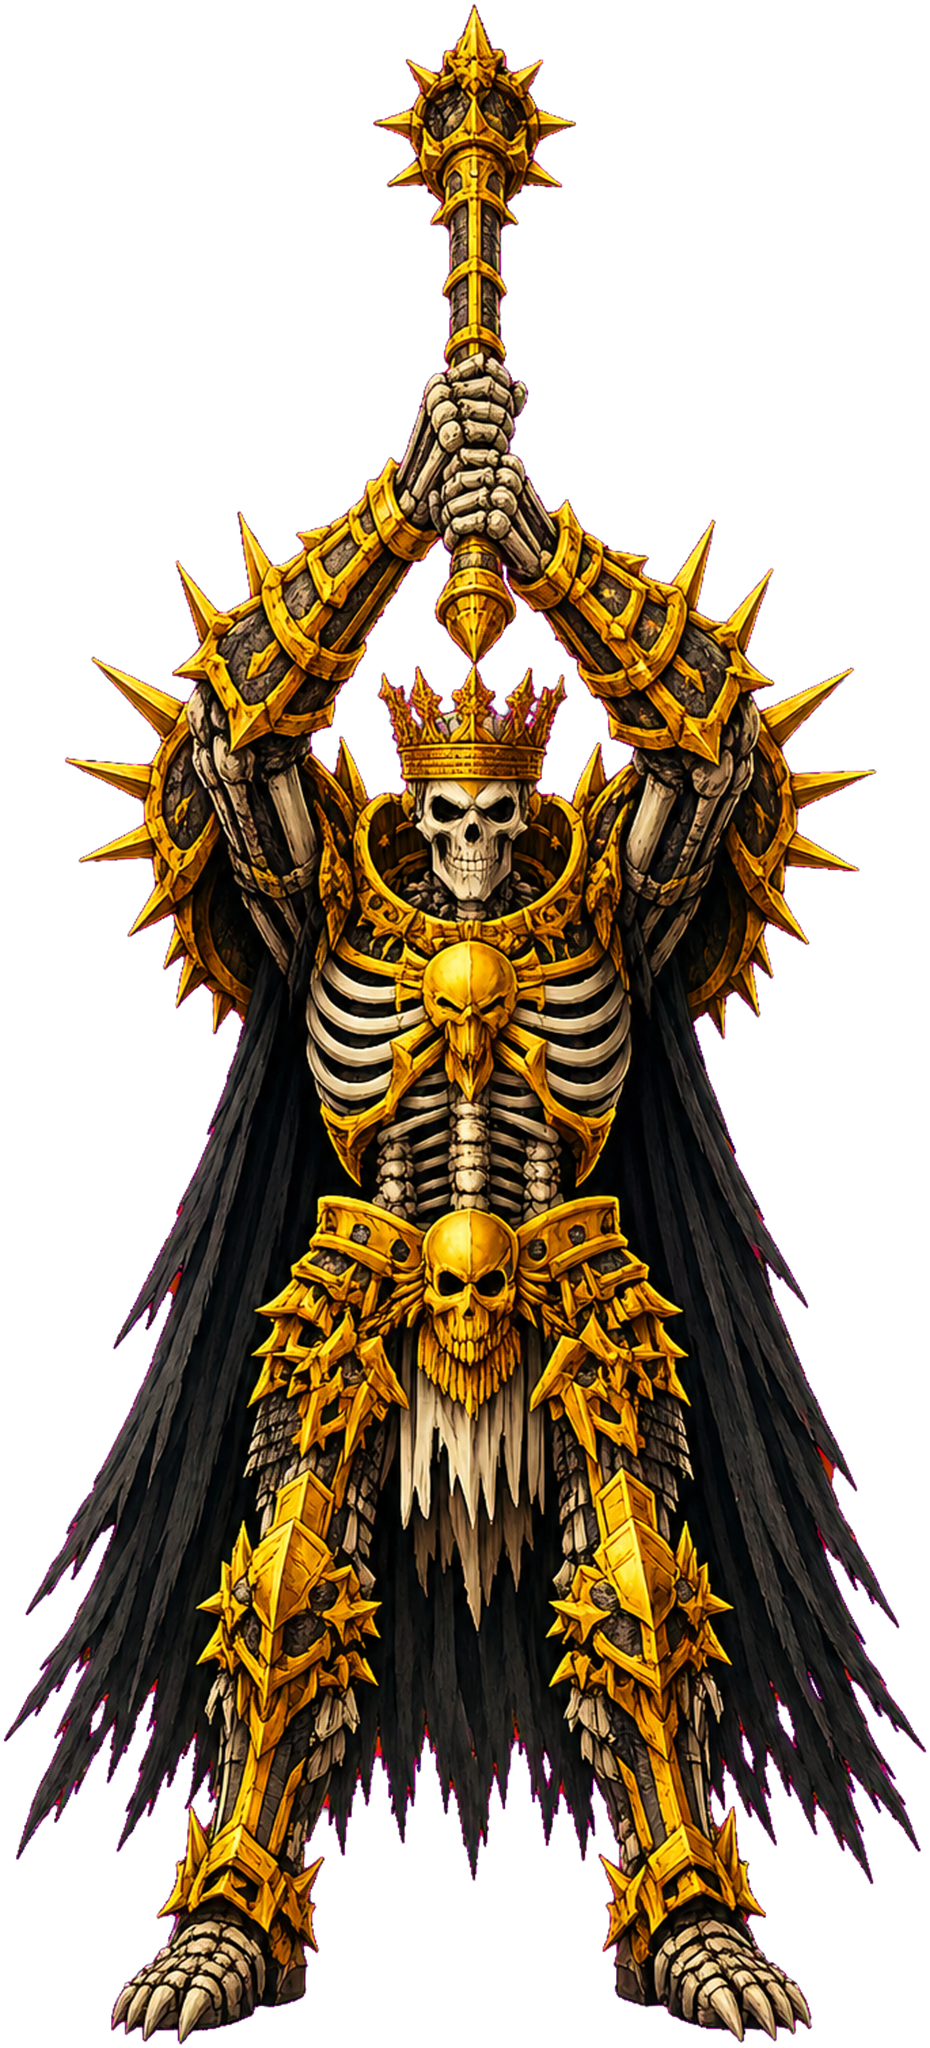
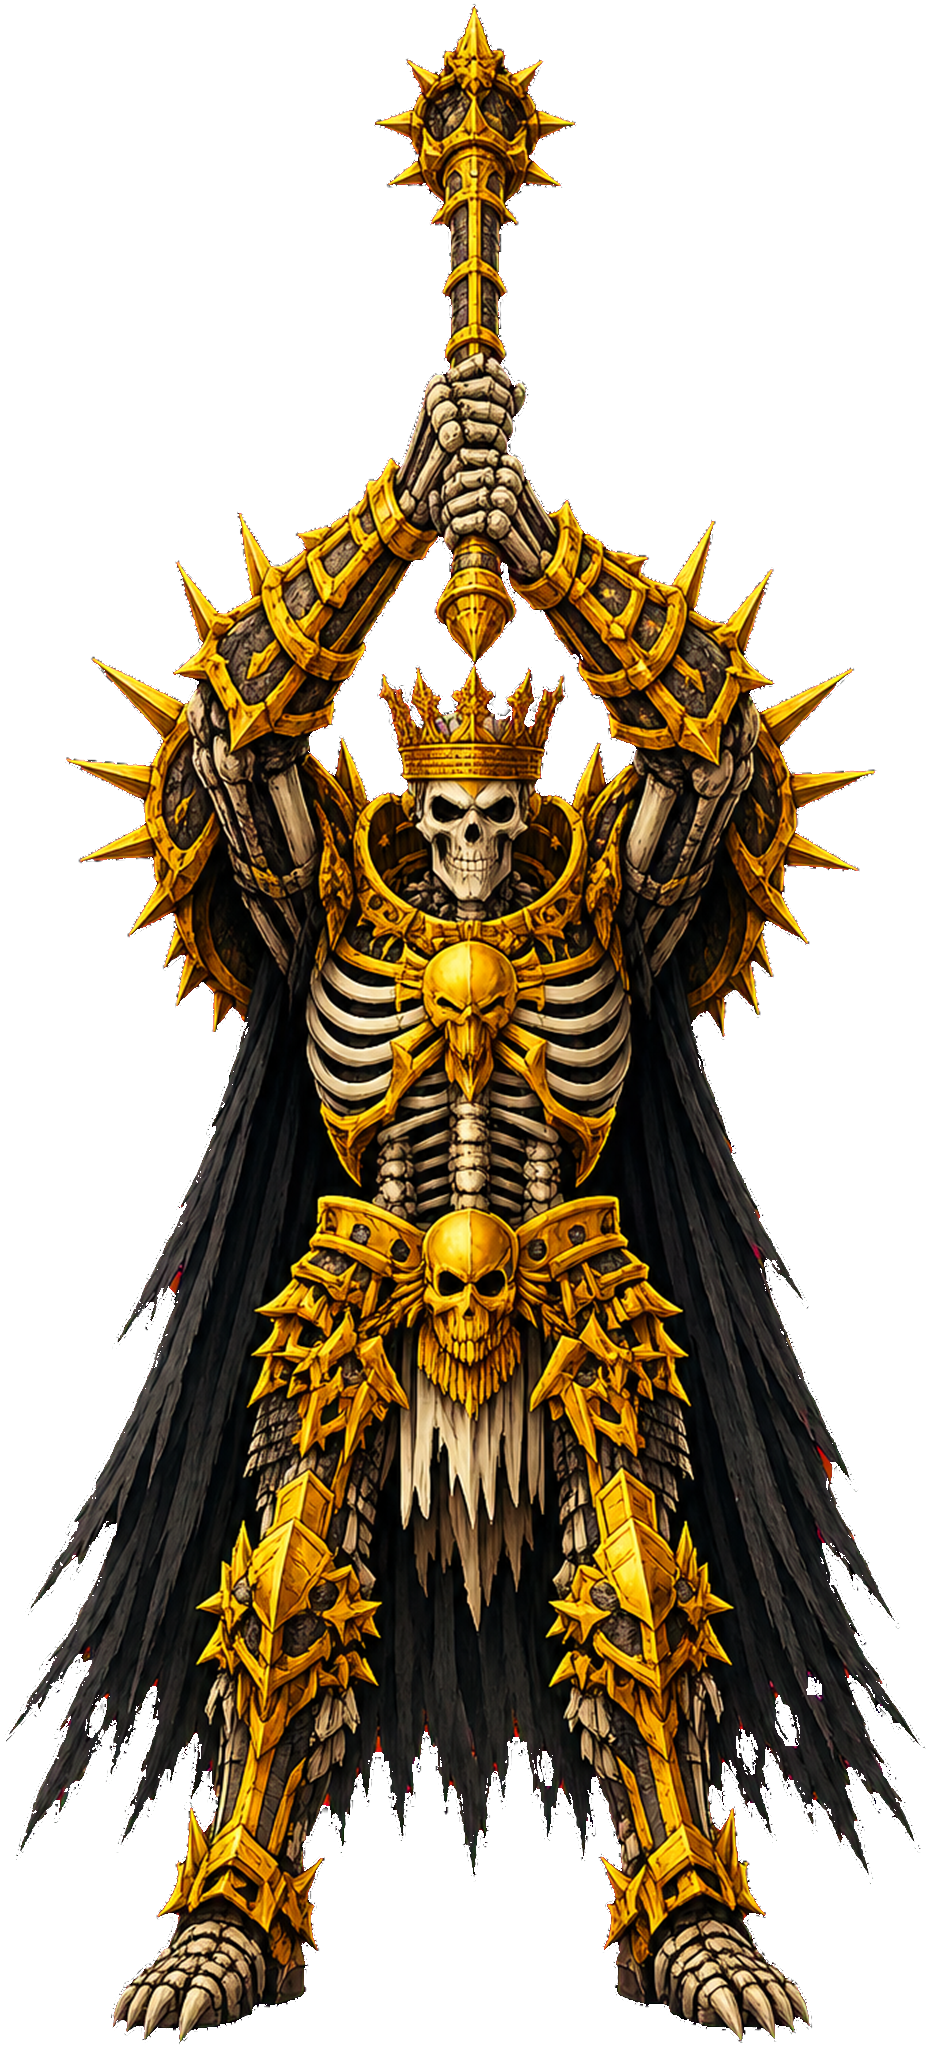
add fungal snail and fan art

diff --git a/js/game.js b/js/game.js
@@ -123,9 +123,10 @@ const journalCatalog = [
   { id: 'voidSerpent', name: 'Void Serpent', kind: 'Enemy', image: 'assets/themes/abyssal-depths/void-serpent.png' },
   { id: 'voidwingDrake', name: 'Riftwing Drake', kind: 'Enemy', image: 'assets/themes/abyssal-depths/voidwing-drake.png' },
   { id: 'corruptedStag', name: 'Corrupted Stag', kind: 'Enemy', image: 'assets/themes/fungal-dominion/corrupted-stag.png' },
+  { id: 'fungalOozeSnail', name: 'Fungal Ooze Snail', kind: 'Enemy', image: 'assets/themes/fungal-dominion/Fungal Ooze Snail.png', fanArt: 'assets/fan-art/Bioluminescent Slug.png' },
   { id: 'mechMinion', name: 'Furnace Sentinel', kind: 'Enemy', image: 'assets/themes/furnace-foundry/furnace-sentinel.png' },
-  { id: 'mechBear', name: 'Brassmaw Siege Bear', kind: 'Enemy', image: 'assets/themes/furnace-foundry/mech-bear.png' },
-  { id: 'shadowCat', name: 'Nightclaw Lynx', kind: 'Enemy', image: 'assets/themes/shadow-realm/shadow-cat.png' },
+  { id: 'mechBear', name: 'Brassmaw Siege Bear', kind: 'Enemy', image: 'assets/themes/furnace-foundry/mech-bear.png', fanArt: 'assets/fan-art/mech bear standing.png' },
+  { id: 'shadowCat', name: 'Nightclaw Lynx', kind: 'Enemy', image: 'assets/themes/shadow-realm/shadow-cat.png', fanArt: 'assets/fan-art/Feral shadowed lynx.png' },
   { id: 'shadowGator', name: 'Dreadscale Gator', kind: 'Enemy', image: 'assets/themes/shadow-realm/shadow-gator.png' },
   { id: 'lushGolem', name: 'Lush Golem', kind: 'Boss', image: 'assets/themes/verdant-ruins/lush-golem.png', fanArt: 'assets/fan-art/original-lush-golem.png' },
   { id: 'lavaGolem', name: 'Lava Golem', kind: 'Boss', image: 'assets/themes/cinder-keep/lava-golem.png' },
@@ -139,7 +140,7 @@ const journalCatalog = [
   { id: 'woodBoss', name: 'Heartwood Horror', kind: 'Boss', image: 'assets/themes/moonwood/wood-boss.png' },
   { id: 'fungalBoss', name: 'Mycelial Sovereign', kind: 'Boss', image: 'assets/themes/fungal-dominion/mycelial-sovereign.png' },
   { id: 'mechOverlord', name: 'Furnace Overlord', kind: 'Boss', image: 'assets/themes/furnace-foundry/mech-boss.png' },
-  { id: 'crystalBoss', name: 'Prismatic Guardian', kind: 'Boss', image: 'assets/themes/crystal-sanctum/crystal-guardian.png' },
+  { id: 'crystalBoss', name: 'Prismatic Guardian', kind: 'Boss', image: 'assets/themes/crystal-sanctum/crystal-guardian.png', fanArt: 'assets/fan-art/crystal guardian mech.png' },
   { id: 'sandSnake', name: 'Gilded Dune Serpent', kind: 'Boss', image: 'assets/themes/desert-ruins/sand-snake.png' },
   { id: 'standard', name: 'Dungeon Guardian', kind: 'Boss', image: 'assets/player/shadow boss.png' },
 ];
@@ -147,7 +148,7 @@ const bestiaryProfiles = {
   woodBoss: { health: 'Boss-tier scaling', damage: 'Boss-tier scaling', speed: '72', traits: 'Wood Slam / Thorn Ring / Heartwood Eruption / Splinterfiend Summoning', backstory: 'The Heartwood Horror was once the Moonwood’s oldest guardian. Corruption entered through an axe wound and turned protection into possession. Its Heartwood Eruption drives the forest’s buried roots upward in one furious command.' },
   crystalBoss: { health: 'Boss-tier scaling', damage: 'Boss-tier scaling', speed: '74', traits: 'Crystal Slam / Prism Dash / Crystal Eruption', backstory: 'The Prismatic Guardian grew around the first gemstone ever cut beneath the dungeon. Every fracture teaches it a new angle of attack, while its shield preserves the reflected memory of every warrior who struck it.' },
   mechMinion: { health: '105 + 12 per boss tier', damage: '10 + 1.35 per boss tier', speed: '68', traits: 'Quad-cannon bolts / heavy armour / boss deployment', backstory: 'Furnace Sentinels were mobile boiler guards built to keep the Overlord’s assembly lines burning. Their four heated barrels fire in perfect sequence because each machine shares the same mechanical memory.' },
-  fungalBoss: { health: 'Boss-tier scaling', damage: 'Boss-tier scaling', speed: '72', traits: 'Mycelium Slam / Hypha Dash / Sporeburst / Corrupted Stag Summoning', backstory: 'The Mycelial Sovereign began as a single spore feeding beneath a forgotten battlefield. It inherited every fallen creature’s instincts through their roots and now believes the entire dungeon is one body awaiting infection.' },
+  fungalBoss: { health: 'Boss-tier scaling', damage: 'Boss-tier scaling', speed: '72', traits: 'Mycelium Slam / Hypha Dash / Sporeburst / Fungal Summoning', backstory: 'The Mycelial Sovereign began as a single spore feeding beneath a forgotten battlefield. It inherited every fallen creature’s instincts through their roots and now believes the entire dungeon is one body awaiting infection.' },
   crystalStalker: { health: '150 + 18 per wave', damage: '14 + 2.1 per wave', speed: '68', traits: 'Verdant crystal armour · Shard Lunge · stamina fracture', backstory: 'Verdant Crystal Stalkers slept beneath the oldest roots until green cave crystals grew through their hides. They now guard every glowing seam in the Lush Caves as if it were an egg.' },
   glowBat: { health: '58 + 9 per wave', damage: '10 + 1.5 per wave', speed: '176', traits: 'Wing-flap flight · Echo Dive · rapid retreat', backstory: 'Viridian Glowbats pollinate crystal flowers that bloom only during cave-ins. Their luminous eyes read echoes through stone, letting them dive through dust where grounded hunters are blind.' },
   lushMossling: { health: '28 + 7 per wave', damage: '7 + 1.25 per wave', speed: '152', traits: 'Crystal Pounce · stamina bite · rapid recovery', backstory: 'Mosslings collect loose cave crystals in the soft growth along their backs. When threatened, they spring head-first at the intruder and carry the stolen strength from each bite home to warm their nests.' },
@@ -170,6 +171,7 @@ const bestiaryProfiles = {
   voidSerpent: { health: '118 + 15 per wave', damage: '15 + 2.2 per wave', speed: '124', traits: 'Close-range venom bite · lingering poison · rapid retreat', backstory: 'Void Serpents swim through the cracks between rooms. Their luminous bellies are said to contain the last light stolen from drowned worlds.' },
   sandRoller: { health: '185 + 20 per wave', damage: '18 + 2.4 per wave', speed: '96', traits: 'Armoured charge · heavy impact', backstory: 'The ruin-builders shaped these guardians from temple blocks. When disturbed, each one curls into a living siege stone and crushes intruders beneath its carved shell.' },
   corruptedStag: { health: '105 + 14 per wave', damage: '17 + 2.3 per wave', speed: '172', traits: 'Antler charge · relentless pursuit', backstory: 'This stag inhaled the Mycelial Sovereign’s oldest spores while grazing above the fungal colony. The growth hollowed its instincts into a single command: charge anything that has not yet joined the bloom.' },
+  fungalOozeSnail: { health: '210 + 24 per wave', damage: '16 + 2.2 per wave', speed: '48', traits: 'Ooze Bite · lingering poison · heavy shell', backstory: 'Fungal Ooze Snails spend centuries carrying entire colonies across the dungeon floor. Their glowing feelers lure hungry creatures close enough for the colony beneath the shell to feed.' },
   scorpionQueen: { health: 'Boss-tier scaling', damage: 'Boss-tier scaling', speed: '72', traits: 'Pincer Slam · Scorpio Dash · Venom Nova · Brood Summoning', backstory: 'The Scorpion Queen was the Sand Tyrant’s most feared general. She bound herself to the desert’s oldest brood and now carries an army beneath her armour.' },
 };
 const bestiaryBackstories = {
@@ -890,6 +892,7 @@ const art = {
   sandRoller: new Image(),
   sunfeatherGriffin: new Image(),
   corruptedStag: new Image(),
+  fungalOozeSnail: new Image(),
   woodBoss: new Image(),
   woodBossOverhead: new Image(),
   woodAttack: new Image(),
@@ -1014,6 +1017,7 @@ function preloadArt() {
     sandRoller: 'assets/themes/desert-ruins/sand-roller.png',
     sunfeatherGriffin: 'assets/themes/desert-ruins/sunfeather-griffin.png',
     corruptedStag: 'assets/themes/fungal-dominion/corrupted-stag.png',
+    fungalOozeSnail: 'assets/themes/fungal-dominion/Fungal Ooze Snail.png',
     mechMinion: 'assets/themes/furnace-foundry/furnace-sentinel.png',
     woodBoss: 'assets/themes/moonwood/wood-boss.png',
     woodBossOverhead: 'assets/themes/moonwood/wood-boss-overhead.png',
@@ -1359,6 +1363,7 @@ const enemyMeleeProfiles = {
   voidSerpent: { attackName: 'Venom Bite', reach: 82, cooldown: 0.78, lunge: 72, damageScale: 1.08, poisonDuration: 3.2, poisonDps: 3.5, retreat: 0.5, color: '#a3e635', shake: 7 },
   sandRoller: { reach: 86, cooldown: 1.35, lunge: 76, damageScale: 1.3, staminaDrain: 14, retreat: 0.24, color: '#fbbf24', shake: 10 },
   corruptedStag: { reach: 90, cooldown: 0.72, lunge: 64, damageScale: 1.18, staminaDrain: 10, retreat: 0.3, color: '#84cc16', shake: 8 },
+  fungalOozeSnail: { attackName: 'Ooze Bite', reach: 76, cooldown: 1.25, lunge: 24, damageScale: 1, poisonDuration: 4, poisonDps: 2.75, retreat: 0.12, color: '#bef264', shake: 7 },
   glowBat: { reach: 76, cooldown: 0.52, lunge: 64, damageScale: 0.8, retreat: 0.52, color: '#4ade80', shake: 4 },
   frosthornRam: { attackName: 'Frosthorn Charge', reach: 90, cooldown: 1.18, lunge: 72, damageScale: 1.18, staminaDrain: 18, retreat: 0.34, color: '#dbeafe', shake: 9 },
   voidwingDrake: { reach: 102, cooldown: 0.82, lunge: 92, damageScale: 1.05, hydrationDrain: 8, retreat: 0.48, color: '#818cf8', shake: 7 },
@@ -1691,6 +1696,7 @@ function getEnemySplashArt(enemy) {
     voidSerpent: 'assets/themes/abyssal-depths/void-serpent.png',
     sandRoller: 'assets/themes/desert-ruins/sand-roller.png',
     corruptedStag: 'assets/themes/fungal-dominion/corrupted-stag.png',
+    fungalOozeSnail: 'assets/themes/fungal-dominion/Fungal Ooze Snail.png',
     shadowCat: 'assets/themes/shadow-realm/shadow-cat.png',
     shadowGator: 'assets/themes/shadow-realm/shadow-gator.png',
     mechBear: 'assets/themes/furnace-foundry/mech-bear.png',
@@ -1813,6 +1819,7 @@ function showWaveSplash() {
     voidSerpent: 'Void Serpents close the distance for a venomous bite, then coil away while the poison works.',
     sandRoller: 'Sand Rollers turn ancient armour into a crushing charge that can break a careless hero.',
     corruptedStag: 'Corrupted Stags sprint down their prey and spread the Sovereign’s invasive spores with every antler strike.',
+    fungalOozeSnail: 'Fungal Ooze Snails crawl slowly behind their shells, then leave a lingering toxin in anything that comes close.',
     shadowCat: 'Nightclaw Lynxes disappear into a Shadow Step, tearing across the arena before their prey can brace.',
     shadowGator: 'Dreadscale Gators launch their armoured bodies into a Voidjaw Lunge that tears away health and hydration.',
     mechBear: 'Brassmaw Siege Bears lock their pistons and launch an armoured charge capable of breaking stamina and formations.',
@@ -1847,7 +1854,7 @@ function showBossSplash() {
     shadowBoss: { name: 'Umbral Warden', image: 'assets/themes/shadow-realm/shadow-boss.png', warning: 'The living darkness strikes with crushing slams, sudden dashes, a void nova, swift Nightclaw Lynxes, and plated Dreadscale Gators.' },
     abyssBoss: { name: 'Abyssal Devourer', image: 'assets/themes/abyssal-depths/abyss-boss-phase-1.png', warning: 'When half its strength is drained, the Devourer tears into its second phase with faster charges and a battlefield-filling abyss nova.' },
     scorpionQueen: { name: 'Scorpion Queen', image: 'assets/themes/desert-ruins/scorpion-queen.png', warning: 'Her venom nova drains the arena, her armoured charge crushes anything ahead, and she calls Desert Scorpions from beneath the sand.' },
-    fungalBoss: { name: 'Mycelial Sovereign', image: 'assets/themes/fungal-dominion/mycelial-sovereign.png', warning: 'Its root-heavy slam breaks the ground, its hypha dash crosses the colony, Sporeburst drains strength, and wounded mycelium calls charging Corrupted Stags.' },
+    fungalBoss: { name: 'Mycelial Sovereign', image: 'assets/themes/fungal-dominion/mycelial-sovereign.png', warning: 'Its root-heavy slam breaks the ground, its hypha dash crosses the colony, Sporeburst drains strength, and wounded mycelium calls charging Stags and poisonous Ooze Snails.' },
     mechOverlord: { name: 'Furnace Overlord', image: 'assets/themes/furnace-foundry/mech-boss.png', warning: 'Its drill crushes armour, its reactor nova punishes anyone nearby, and its assembly rail deploys ranged Furnace Sentinels and Brassmaw Siege Bears.' },
     crystalBoss: { name: 'Prismatic Guardian', image: 'assets/themes/crystal-sanctum/crystal-guardian.png', warning: 'Its crystal shield powers crushing slams, Prism Dash closes distance instantly, and Crystal Eruption fills most of the arena with deadly shards.' },
     sandSnake: { name: 'Gilded Dune Serpent', image: 'assets/themes/desert-ruins/sand-snake.png', warning: 'Its ritual staff crushes the ground, Serpent Rush crosses the Sand Arena, and Scarab Storm strips away health, stamina, and food.' },
@@ -2339,6 +2346,12 @@ function createEnemy(room, index, forcedType = null) {
     base.health = 105 + state.wave * 14;
     base.damage = 17 + state.wave * 2.3;
     base.radius = 22;
+  }
+  if (type === 'fungalOozeSnail') {
+    base.speed = 48;
+    base.health = 210 + state.wave * 24;
+    base.damage = 16 + state.wave * 2.2;
+    base.radius = 30;
   }
   if (type === 'glowBat') {
     base.speed = 176; base.health = 58 + state.wave * 9; base.damage = 10 + state.wave * 1.5; base.radius = 18;
@@ -3421,7 +3434,7 @@ function updateEnemies(dt) {
           player.poisonTimer = Math.max(player.poisonTimer, meleeProfile.poisonDuration);
           player.poisonDps = Math.max(player.poisonDps, meleeProfile.poisonDps || 3);
           spawnBurst(player.x, player.y, 14, '#a3e635', 90);
-          setMessage('Serpent venom burns through your veins!', true);
+          setMessage(`${meleeProfile.attackName || 'Venom'} leaves poison burning through your veins!`, true);
         }
         if (meleeProfile && victim === player && damageLanded) {
           player.stamina = Math.max(0, player.stamina - (meleeProfile.staminaDrain || 0));
@@ -3831,19 +3844,21 @@ function summonWoodMinion(boss) {
   setMessage(`The Heartwood Horror lost ${Math.round((1 - boss.nextWoodMinionThreshold) * 100)}% health and summoned a Splinterfiend!`);
 }
 
-// Calls one fungal stag at each major health threshold.
+// Alternates fast stags and slow toxic snails at major health thresholds.
 function summonFungalStag(boss) {
   const angle = Math.random() * Math.PI * 2;
-  const health = 105 + boss.tier * 14;
-  const stag = {
-    x: clamp(boss.x + Math.cos(angle) * 145, state.bossArena.x + 22, state.bossArena.x + state.bossArena.w - 22),
-    y: clamp(boss.y + Math.sin(angle) * 145, state.bossArena.y + 22, state.bossArena.y + state.bossArena.h - 22),
-    radius: 22,
-    speed: 172,
+  const summonsSnail = boss.fungalStagsSummoned % 2 === 1;
+  const radius = summonsSnail ? 30 : 22;
+  const health = summonsSnail ? 210 + boss.tier * 24 : 105 + boss.tier * 14;
+  const summon = {
+    x: clamp(boss.x + Math.cos(angle) * 145, state.bossArena.x + radius, state.bossArena.x + state.bossArena.w - radius),
+    y: clamp(boss.y + Math.sin(angle) * 145, state.bossArena.y + radius, state.bossArena.y + state.bossArena.h - radius),
+    radius,
+    speed: summonsSnail ? 48 : 172,
     health,
     maxHealth: health,
-    damage: 17 + boss.tier * 2.3,
-    type: 'corruptedStag',
+    damage: summonsSnail ? 16 + boss.tier * 2.2 : 17 + boss.tier * 2.3,
+    type: summonsSnail ? 'fungalOozeSnail' : 'corruptedStag',
     bossMinion: true,
     cooldown: 0,
     aiTimer: 0,
@@ -3854,10 +3869,12 @@ function summonFungalStag(boss) {
     movePhase: angle,
     elite: false,
   };
-  ensureEnemyHasBestiaryEntry(stag);
-  state.enemies.push(stag);
-  spawnBurst(stag.x, stag.y, 38, '#a3e635', 185);
-  setMessage('The Mycelial Sovereign calls a Corrupted Stag from the fungal bloom!');
+  ensureEnemyHasBestiaryEntry(summon);
+  state.enemies.push(summon);
+  spawnBurst(summon.x, summon.y, summonsSnail ? 48 : 38, '#a3e635', 185);
+  setMessage(summonsSnail
+    ? 'The Mycelial Sovereign heaves a Fungal Ooze Snail from the colony!'
+    : 'The Mycelial Sovereign calls a Corrupted Stag from the fungal bloom!');
 }
 
 // Raises one of the Skeleton Warlord's health-threshold orbs.
@@ -4084,7 +4101,7 @@ function spawnBossDeathSummons(boss) {
     sandBoss: ['skeletonMinion', 'skeletonOrb'],
     scorpionQueen: ['desertScorpion'],
     woodBoss: ['woodMinion'],
-    fungalBoss: ['corruptedStag'],
+    fungalBoss: ['corruptedStag', 'fungalOozeSnail'],
     mechOverlord: ['mechMinion', 'mechBear'],
     shadowBoss: ['shadowCat', 'shadowGator'],
   }[boss.variant];
@@ -4098,6 +4115,7 @@ function spawnBossDeathSummons(boss) {
     desertScorpion: { radius: 21, speed: 126, health: 72, healthTier: 10, damage: 10, damageTier: 1.45 },
     woodMinion: { radius: 18, speed: 112, health: 65, healthTier: 9, damage: 8, damageTier: 1.3 },
     corruptedStag: { radius: 22, speed: 172, health: 105, healthTier: 14, damage: 17, damageTier: 2.3 },
+    fungalOozeSnail: { radius: 30, speed: 48, health: 210, healthTier: 24, damage: 16, damageTier: 2.2 },
     mechMinion: { radius: 23, speed: 68, health: 105, healthTier: 12, damage: 10, damageTier: 1.35 },
     mechBear: { radius: 31, speed: 62, health: 260, healthTier: 28, damage: 23, damageTier: 3 },
     shadowCat: { radius: 23, speed: 172, health: 128, healthTier: 17, damage: 17, damageTier: 2.4 },
@@ -5104,7 +5122,7 @@ function drawActorSprite({
   const frontFacingEnemyArt = [
     'crystalStalker', 'crystalMinion', 'crystalTank',
     'shadowCat', 'shadowGator', 'magmaSerpent', 'frostWraith',
-    'voidSerpent', 'sandRoller', 'corruptedStag', 'mechMinion', 'mechBear',
+    'voidSerpent', 'sandRoller', 'corruptedStag', 'fungalOozeSnail', 'mechMinion', 'mechBear',
     'iceMinion', 'glowBat', 'sunfeatherGriffin',
   ];
   const enemyArtFacesLeft = leftFacingEnemyArt.includes(variant);
@@ -5144,6 +5162,7 @@ function drawActorSprite({
     : variant === 'shadowCat' ? 118
     : variant === 'oceanHippo' ? 146
     : variant === 'shadowGator' ? 148
+    : variant === 'fungalOozeSnail' ? 138
     : variant === 'crystalStalker' ? 102
       : variant === 'crystalMinion' ? 90
       : variant === 'corruptedStag' ? 102
@@ -5167,6 +5186,7 @@ function drawActorSprite({
     : variant === 'shadowCat' ? 126
     : variant === 'oceanHippo' ? 118
     : variant === 'shadowGator' ? 116
+    : variant === 'fungalOozeSnail' ? 138
     : variant === 'crystalStalker' ? 118
       : variant === 'crystalMinion' ? 100
         : variant === 'crystalTank' ? 108
@@ -5208,7 +5228,7 @@ function drawEnemy(enemy) {
   const walkingAnimals = [
     'crawler', 'burrower', 'lushMossling', 'crystalStalker', 'lavaSpider',
     'magmaSerpent', 'skeletonSpider', 'desertScorpion', 'sandRoller',
-    'abyssSpider', 'voidSerpent', 'corruptedStag', 'crystalLion', 'crystalBobcat',
+    'abyssSpider', 'voidSerpent', 'corruptedStag', 'fungalOozeSnail', 'crystalLion', 'crystalBobcat',
     'shadowCat', 'shadowGator', 'oceanHippo', 'lavaTiger', 'mechBear', 'frosthornRam',
   ];
   const walkBob = walkingAnimals.includes(enemy.type)
